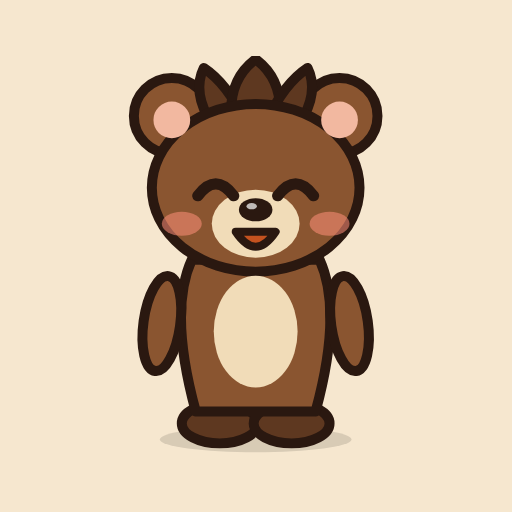
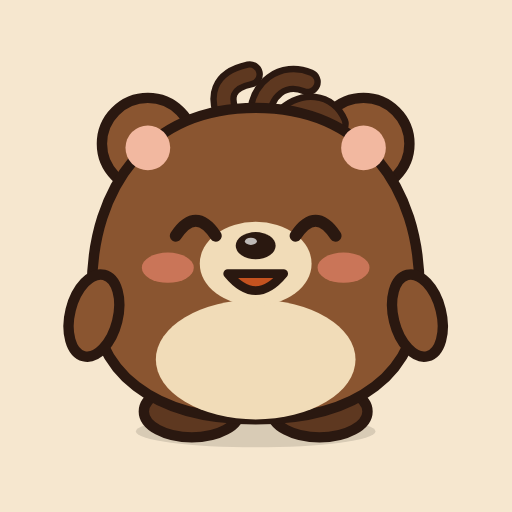
くまトイを丸いデザインに戻し、頭に寝ぐせ風の毛(向きと長さがばらばらな3本)を付ける

diff --git a/js/bear.js b/js/bear.js
@@ -1,39 +1,38 @@
-/* くまトイ: ヒグマのマスコット(ますくん・だるま と同じく、体の形 + 表情の切り替え)
-   すらっとした体(頭と細い胴を分けたシルエット)と、頭のとさか風の毛(3本)が特徴。
+/* くまトイ: ヒグマのマスコット(ますくん・だるま と同じく、丸い体 + 表情の切り替え)
+   頭の上に寝ぐせ風の毛(ばらばらな3本)
    mood: 'normal' | 'happy' | 'worried' | 'sleep'(true は worried)。ゆれ・まばたきは CSS(.bear) */
+// 寝ぐせ: 向きも長さもばらばらな毛。輪郭(太い線)を先に全部描いてから、中の色を重ねる
+const BED_HAIR=['M44 17C40 10 42 6 48.5 4.6','M51 16C51 8 57 4 63 6.5','M57 16C62 11 68 12 70 17'];
 function bearSvg(size,mood){
   const m=mood===true?'worried':(mood||'normal');
   const INK='#2a1810', FUR='#8a5530', FUR_D='#5e3820', CREAM='#f1dcb8';
   const eyes={
-    normal:`<g class="eyes"><ellipse cx="40" cy="33" rx="3.4" ry="4.3" fill="${INK}"/><ellipse cx="60" cy="33" rx="3.4" ry="4.3" fill="${INK}"/><circle cx="41.2" cy="31.3" r="1.3" fill="#fff"/><circle cx="61.2" cy="31.3" r="1.3" fill="#fff"/></g>`,
-    happy:`<path d="M35.5 35 Q40 29 44.5 35M55.5 35 Q60 29 64.5 35" fill="none" stroke="${INK}" stroke-width="2.8" stroke-linecap="round"/>`,
-    sleep:`<path d="M35.5 33 Q40 36.5 44.5 33M55.5 33 Q60 36.5 64.5 33" fill="none" stroke="${INK}" stroke-width="2.8" stroke-linecap="round"/>`,
+    normal:`<g class="eyes"><ellipse cx="35" cy="43" rx="4.2" ry="5" fill="${INK}"/><ellipse cx="65" cy="43" rx="4.2" ry="5" fill="${INK}"/><circle cx="36.4" cy="41" r="1.6" fill="#fff"/><circle cx="66.4" cy="41" r="1.6" fill="#fff"/></g>`,
+    happy:`<path d="M30 45 Q35 37.5 40 45M60 45 Q65 37.5 70 45" fill="none" stroke="${INK}" stroke-width="3" stroke-linecap="round"/>`,
+    sleep:`<path d="M30 43 Q35 47 40 43M60 43 Q65 47 70 43" fill="none" stroke="${INK}" stroke-width="3" stroke-linecap="round"/>`,
   };
   eyes.worried=eyes.normal;
-  const brows=m==='worried'?`<path d="M34 28 L45 31M66 28 L55 31" stroke="${INK}" stroke-width="2.4" stroke-linecap="round"/>`
-    :m==='normal'?`<path d="M35 27.5 Q40 25 45 27M55 27 Q60 25 65 27.5" fill="none" stroke="${FUR_D}" stroke-width="2.2" stroke-linecap="round"/>`:'';
-  const mouth=m==='worried'?`<path d="M45.5 47.5 Q50 43.5 54.5 47.5" fill="none" stroke="${INK}" stroke-width="2.2" stroke-linecap="round"/>`
-    :m==='happy'?`<path d="M45 44 Q50 51.5 55 44Z" fill="#c4521f" stroke="${INK}" stroke-width="2" stroke-linejoin="round"/>`
-    :`<path d="M45 44.2 Q47.5 47.8 50 43.8 Q52.5 47.8 55 44.2" fill="none" stroke="${INK}" stroke-width="2.2" stroke-linecap="round" stroke-linejoin="round"/>`;
-  const extra=m==='worried'?'<path d="M79 22c2.6 3.4 3.6 6 3.6 7.8a3.6 3.6 0 0 1-7.2 0c0-1.8 1-4.4 3.6-7.8z" fill="#8fd3f4" stroke="#4aa3d0" stroke-width="1"/>'
-    :m==='sleep'?`<g fill="${FUR_D}" font-family="sans-serif" font-weight="800"><text x="80" y="16" font-size="9">z</text><text x="87" y="7" font-size="7">z</text></g>`:'';
+  const brows=m==='worried'?`<path d="M29 35 L41 38M71 35 L59 38" stroke="${INK}" stroke-width="2.6" stroke-linecap="round"/>`
+    :m==='normal'?`<path d="M30 35.5 Q35 33 40 35M60 35 Q65 33 70 35.5" fill="none" stroke="${FUR_D}" stroke-width="2.4" stroke-linecap="round"/>`:'';
+  const mouth=m==='worried'?`<path d="M44.5 59 Q50 54.5 55.5 59" fill="none" stroke="${INK}" stroke-width="2.4" stroke-linecap="round"/>`
+    :m==='happy'?`<path d="M43 54.5 Q50 63 57 54.5Z" fill="#c4521f" stroke="${INK}" stroke-width="2.2" stroke-linejoin="round"/>`
+    :`<path d="M43 55 Q46.5 59.5 50 54.8 Q53.5 59.5 57 55" fill="none" stroke="${INK}" stroke-width="2.4" stroke-linecap="round" stroke-linejoin="round"/>`;
+  const extra=m==='worried'?'<path d="M78 30c3 4 4 7 4 9a4 4 0 0 1-8 0c0-2 1-5 4-9z" fill="#8fd3f4" stroke="#4aa3d0" stroke-width="1"/>'
+    :m==='sleep'?`<g fill="${FUR_D}" font-family="sans-serif" font-weight="800"><text x="82" y="9" font-size="8">z</text><text x="89" y="5" font-size="6">z</text></g>`:'';
   return `<svg class="bear" width="${size}" height="${size}" viewBox="0 0 100 100" aria-hidden="true">
-<ellipse cx="50" cy="96" rx="24" ry="3.2" fill="#000" opacity=".12"/>
-<g stroke="${INK}" stroke-width="2.5" stroke-linejoin="round">
-<ellipse cx="41" cy="92" rx="9.5" ry="5" fill="${FUR_D}"/><ellipse cx="59" cy="92" rx="9.5" ry="5" fill="${FUR_D}"/>
-<path d="M34 51C29 62 32 78 35 89L65 89C68 78 71 62 66 51Z" fill="${FUR}"/>
-<ellipse cx="26.5" cy="67" rx="4.6" ry="12" transform="rotate(8 26.5 67)" fill="${FUR}"/><ellipse cx="73.5" cy="67" rx="4.6" ry="12" transform="rotate(-8 73.5 67)" fill="${FUR}"/>
-<circle cx="29" cy="15" r="9.5" fill="${FUR}"/><circle cx="71" cy="15" r="9.5" fill="${FUR}"/>
-<path d="M39 17Q34 9 37 3Q43 7 47 16Z" fill="${FUR_D}"/>
-<path d="M44 16Q43 6 50 0.8Q57 6 56 16Z" fill="${FUR_D}"/>
-<path d="M53 16Q57 7 63 3Q66 9 61 17Z" fill="${FUR_D}"/>
-<ellipse cx="50" cy="33" rx="26" ry="21" fill="${FUR}"/>
+<ellipse cx="50" cy="94" rx="30" ry="4" fill="#000" opacity=".12"/>
+<g stroke="${INK}" stroke-width="2.6" stroke-linejoin="round">
+<ellipse cx="34" cy="89" rx="12" ry="6.5" fill="${FUR_D}"/><ellipse cx="66" cy="89" rx="12" ry="6.5" fill="${FUR_D}"/>
+<circle cx="23" cy="22" r="11.5" fill="${FUR}"/><circle cx="77" cy="22" r="11.5" fill="${FUR}"/>
+${BED_HAIR.map(d=>`<path d="${d}" fill="none" stroke="${INK}" stroke-width="6.6" stroke-linecap="round"/>`).join('')}${BED_HAIR.map(d=>`<path d="${d}" fill="none" stroke="${FUR_D}" stroke-width="3.4" stroke-linecap="round"/>`).join('')}
+<path d="M50 13C77 13 91 33 91 58 91 80 75 91 50 91 25 91 9 80 9 58 9 33 23 13 50 13Z" fill="${FUR}"/>
+<ellipse cx="9.5" cy="65" rx="6" ry="10.5" transform="rotate(14 9.5 65)" fill="${FUR}"/><ellipse cx="90.5" cy="65" rx="6" ry="10.5" transform="rotate(-14 90.5 65)" fill="${FUR}"/>
 </g>
-<circle cx="29" cy="16" r="4.6" fill="#f2b8a0"/><circle cx="71" cy="16" r="4.6" fill="#f2b8a0"/>
-<ellipse cx="50" cy="69" rx="10.5" ry="14" fill="${CREAM}"/>
-<ellipse cx="31.5" cy="42" rx="5" ry="3" fill="#ff8f7a" opacity=".55"/><ellipse cx="68.5" cy="42" rx="5" ry="3" fill="#ff8f7a" opacity=".55"/>
-<ellipse cx="50" cy="42" rx="11" ry="8.5" fill="${CREAM}"/>
-<ellipse cx="50" cy="38.5" rx="4.2" ry="2.9" fill="${INK}"/><ellipse cx="49" cy="37.6" rx="1.3" ry=".8" fill="#fff" opacity=".7"/>
+<circle cx="23" cy="23" r="5.6" fill="#f2b8a0"/><circle cx="77" cy="23" r="5.6" fill="#f2b8a0"/>
+<ellipse cx="50" cy="76" rx="25" ry="15" fill="${CREAM}"/>
+<ellipse cx="28" cy="53" rx="6.5" ry="3.8" fill="#ff8f7a" opacity=".55"/><ellipse cx="72" cy="53" rx="6.5" ry="3.8" fill="#ff8f7a" opacity=".55"/>
+<ellipse cx="50" cy="52" rx="14" ry="10.5" fill="${CREAM}"/>
+<ellipse cx="50" cy="47.5" rx="5" ry="3.4" fill="${INK}"/><ellipse cx="48.8" cy="46.4" rx="1.5" ry=".9" fill="#fff" opacity=".7"/>
 ${brows}${eyes[m]}${mouth}${extra}
 </svg>`;
 }

diff --git a/index.html b/index.html
@@ -9,8 +9,8 @@
 <meta name="theme-color" content="#1a1714" media="(prefers-color-scheme: dark)">
 <meta name="color-scheme" content="light dark">
 <link rel="manifest" href="manifest.webmanifest?v=861daa9a">
-<link rel="apple-touch-icon" href="apple-touch-icon.png?v=8505409c">
-<link rel="icon" href="icon-192.png?v=5de5f8df">
+<link rel="apple-touch-icon" href="apple-touch-icon.png?v=49570470">
+<link rel="icon" href="icon-192.png?v=3a9559ec">
 <meta name="apple-mobile-web-app-capable" content="yes">
 <meta name="mobile-web-app-capable" content="yes">
 <meta name="apple-mobile-web-app-status-bar-style" content="default">
@@ -58,7 +58,7 @@
 <script src="js/geo.js?v=1a5e67f5"></script>
 <script src="js/hours.js?v=00fea5ba"></script>
 <script src="js/icons.js?v=20d36588"></script>
-<script src="js/bear.js?v=4898e890"></script>
+<script src="js/bear.js?v=cbdea3a8"></script>
 <script src="js/cloud.js?v=1c62d3ac"></script>
 <script src="js/map.js?v=79ed05f6"></script>
 <script src="js/settings.js?v=4cdccf97"></script>
